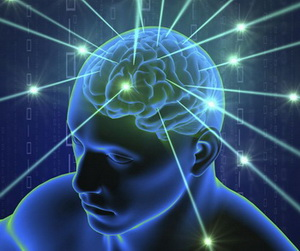
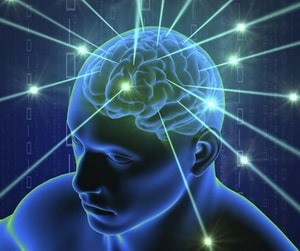
fixed img size

diff --git a/index.html b/index.html
@@ -62,7 +62,7 @@
 
       <div class="services clearfix">
         <div class="services_item">
-          <img src="pic/icon1.png" alt="Услагa">
+          <img src="pic/icon1.png" alt="Услугa">
           <h3>Экономия</h3>
           <p>
             Получай лучшие книги мира, бесссплатно. Тебе не нужно тратить деньги для покупки книг. Теперь ты их будешь получать бесссплатно.Мировые бестселлеры, признаные автора, и все это благодаря твоей подписке!
@@ -70,7 +70,7 @@
         </div>
 
         <div class="services_item">
-           <img src="pic/icon2.png" alt="Услагa">
+           <img src="pic/icon2.png" alt="Услугa">
           <h3>Только лучшее</h3>
           <p>
             Мы гарантируем в актуальности и полезности книг! Вы откроете для себя мир миллионов книг, и выдающихся авторов.Разву
@@ -78,7 +78,7 @@
         </div>
 
         <div class="services_item">
-           <img src="pic/icon3.png" alt="Услагa">
+           <img src="pic/icon3.png" alt="Услугa">
           <h3>Защита</h3>
           <p>
             Гарантируем защиту от спама, и что твои данные  будут использованы только на нашем сервисе. Только книги и никакой рекламы.
@@ -98,9 +98,9 @@
           Польза чтения огромна. Читая, человек познает новое, интересное, расширяет кругозор и обогащает лексикон. Чтение доставляет людям эстетическое удовлетворение. Это самый универсальный и простой способ развлечения, а также важнейшая часть культурного и духовного самосовершенствования.Психологи утверждают, что чтение – неотъемлемый процесс на всех стадиях формирования личности. Начиная с детского возраста, когда ребенку читают вслух родители, заканчивая зрелым возрастом, когда человек переживает личностные кризисы и духовно растет.Неоценима польза чтения в подростковом возрасте. Читая, подростки не только развивают память, мышление и другие когнитивные процессы, а еще развивают эмоционально волевую сферу, учатся любить, прощать, сопереживать, оценивать поступки, анализировать действия, прослеживать причинно-следственные связи. Поэтому очевидна польза книг для людей, которые позволяют вырастить и воспитать личность.В процессе чтения у человека активно работает головной мозг – оба полушария. Читая – работа левого полушария, человек рисует в воображении образы и картинки происходящего в сюжете – это уже работа правого полушария. Читатель получает сбе не только удовольствие от чтения, но и развивает способности мозга.
         </p>
         <div class="works clearfix" id="slogan">
-          <img src="pic/img1.jpg" alt="работа">
-          <img src="pic/img2.jpg" alt="работа">
-          <img src="pic/img3.jpg" alt="работа">
+          <img src="pic/img1.jpg" alt="мозг">
+          <img src="pic/img2.jpg" alt="супер мозг">
+          <img src="pic/img3.jpg" alt="Сверх разум">
         </div>
       </div>
     </div>
@@ -112,12 +112,12 @@
     <h2>
      Отзывы
     </h2>
-    <p>Люди рекомендуют на сервис</p>
+    <p>Люди рекомендуют наш сервис</p>
    </div>
    <div class="about">
     <div class="about-elem">
      <div class="image">
-      <img class="form" src="pic/about1.jpg" alt="">
+      <img class="form" src="pic/about1.jpg" alt="Бампер">
      </div>
      <div class="content">
       <h3 class="titless">
@@ -128,7 +128,7 @@
     </div>
     <div class="about-elem">
      <div class="image">
-      <img class="form" src="pic/about2.jpg" alt="">
+      <img class="form" src="pic/about2.jpg" alt="Сердючка">
      </div>
      <div class="content">
       <h3 class="titless-lft">
@@ -139,7 +139,7 @@
     </div>
     <div class="about-elem">
      <div class="image">
-      <img class="form" src="pic/about3.jpg" alt="">
+      <img class="form" src="pic/about3.jpg" alt="Бобул">
      </div>
      <div class="content">
       <h3 class="titless">
@@ -150,7 +150,7 @@
     </div>
     <div class="about-elem">
      <div class="image">
-      <img class="form" src="pic/about4.jpg" alt="">
+      <img class="form" src="pic/about4.jpg" alt="Павлик">
      </div>
      <div class="content">
       <h3 class="titless-lft">
